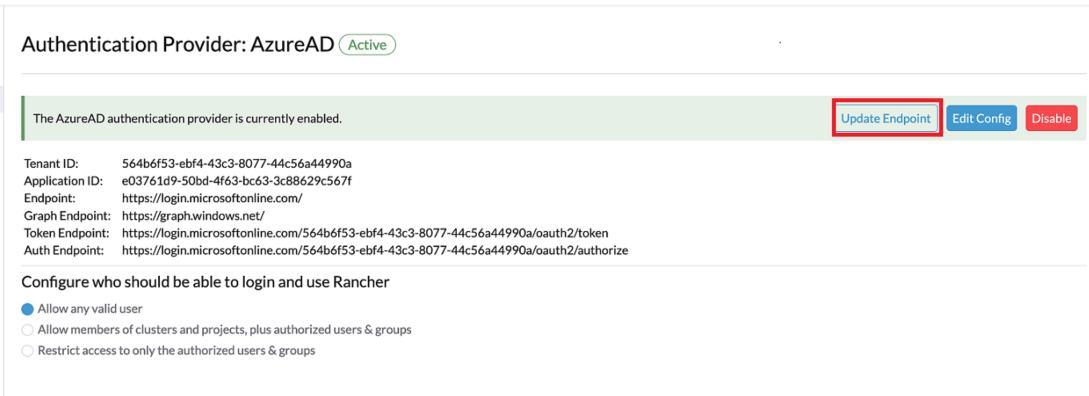
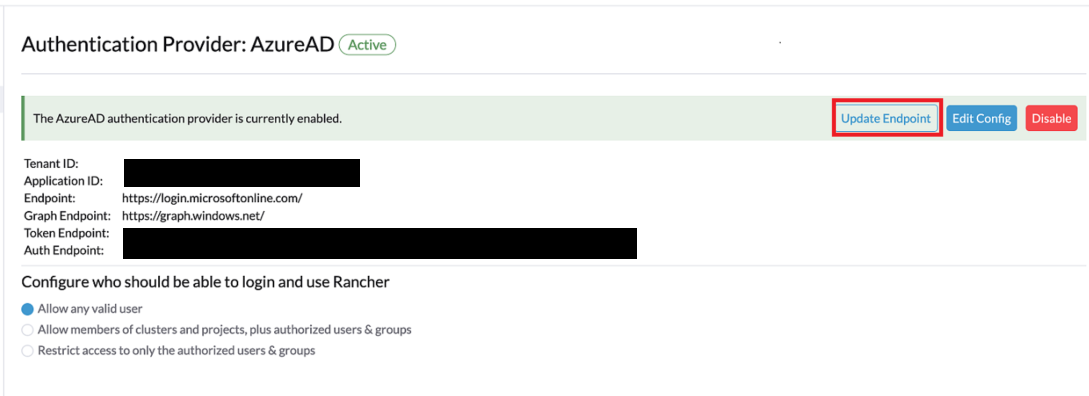
Added 2.5 pics, blocked out sensitive info on 2.6 pics

Changed region(s): [[0.0937, 0.5758, 0.5932, 0.6667], [0.0937, 0.3939, 0.3434, 0.4848]]

diff --git a/content/rancher/v2.5/en/admin-settings/authentication/azure-ad/_index.md b/content/rancher/v2.5/en/admin-settings/authentication/azure-ad/_index.md
@@ -163,9 +163,12 @@ As your final step in Azure, copy the data that you'll use to configure Rancher 
 
     ![Application ID]({{<baseurl>}}/img/rancher/application-id.png)
 
-1. Your endpoint options will typically be [Standard](#global) and [China](#china). With these options, you need only enter the **Tenant ID**, **Application ID**, and **Application Secret** (Rancher will take care of the rest).
+1. Your endpoint options will typically be [Standard](#global) and [China](#china). With the Standard option, perform the steps below and Rancher will take care of the rest.
 
-![Standard Endpoint Options]({{<baseurl>}}/img/rancher/tenant-application-id-secret.png)
+    - Enter the **Tenant ID**, **Application ID**, and **Application Secret**
+    - Click **Enable**
+
+![Standard Endpoint Options]({{<baseurl>}}/img/rancher/tenant-application-id-secret2.png)
     
 
 >**For Custom Endpoints:** 
@@ -243,15 +246,15 @@ Since [Azure AD Graph API](https://docs.microsoft.com/en-us/graph/migrate-azure-
 
     ![Rancher UI Banner]({{<baseurl>}}/img/rancher/rancher-ui-azure-update.png)
 
-1. When you receive the popup message, click **Update**. 
-
-    ![Azure Update Popup]({{<baseurl>}}/img/rancher/azure-update-popup.png)
-
-1. To complete the move to the new Microsoft Graph API, click **Update Endpoint**.
+1. To complete the move to the new Microsoft Graph API, click **Update Endpoint**, then click **Save**.
 
     **Note:** Ensure that your Azure app has a [new set of permissions](#3-set-required-permissions-for-rancher) before agreeing to commit to the endpoint update, as the old permissions would no longer be needed.
 
-    ![Update Endpoint]({{<baseurl>}}/img/rancher/rancher-button-to-update.png)
+    ![Update Endpoint]({{<baseurl>}}/img/rancher/rancher-button-to-update2.png)
+
+1. When you receive the pop-up warning message, click **Update**. 
+
+    ![Azure Update Pop-up]({{<baseurl>}}/img/rancher/azure-update-popup2.png)
 
 1. Refer to the [tables](#global) below for the full list of endpoint changes that Rancher performs. Admins do not need to do this manually.
 
@@ -272,36 +275,36 @@ If you need to roll back your migration, please note the following:
 #### Global:
    
 Rancher Field    | Deprecated Endpoints               
------------------| -------------------------------------------------------------
+---------------- | -------------------------------------------------------------
 Auth Endpoint    | https://login.microsoftonline.com/{tenantID}/oauth2/authorize
 Endpoint         | https://login.microsoftonline.com/ 
 Graph Endpoint   | https://graph.windows.net/    
 Token Endpoint   | https://login.microsoftonline.com/{tenantID}/oauth2/token   
 ---
 
-Rancher Field     | New Endpoints
------------------ | ------------------------------------------------------------------ 
-Auth Endpoint     | https://login.microsoftonline.com/{tenantID}/oauth2/v2.0/authorize 
-Endpoint          | https://login.microsoftonline.com/
-Graph Endpoint    | https://graph.microsoft.com
-Token Endpoint    | https://login.microsoftonline.com/{tenantID}/oauth2/v2.0/token
+Rancher Field    | New Endpoints
+---------------- | ------------------------------------------------------------------ 
+Auth Endpoint    | https://login.microsoftonline.com/{tenantID}/oauth2/v2.0/authorize 
+Endpoint         | https://login.microsoftonline.com/
+Graph Endpoint   | https://graph.microsoft.com
+Token Endpoint   | https://login.microsoftonline.com/{tenantID}/oauth2/v2.0/token
 
 #### China:
 
-Rancher Field     | Deprecated Endpoints
------------------ | ----------------------------------------------------------
-Auth Endpoint     | https://login.chinacloudapi.cn/{tenantID}/oauth2/authorize 
-Endpoint          | https://login.chinacloudapi.cn/
-Graph Endpoint    | https://graph.chinacloudapi.cn/
-Token Endpoint    | https://login.chinacloudapi.cn/{tenantID}/oauth2/token 
+Rancher Field    | Deprecated Endpoints
+---------------- | ----------------------------------------------------------
+Auth Endpoint    | https://login.chinacloudapi.cn/{tenantID}/oauth2/authorize 
+Endpoint         | https://login.chinacloudapi.cn/
+Graph Endpoint   | https://graph.chinacloudapi.cn/
+Token Endpoint   | https://login.chinacloudapi.cn/{tenantID}/oauth2/token 
 ---
 
-Rancher Field     | New Endpoints  
------------------ | -------------------------------------------------------------------------
-Auth Endpoint     | https://login.partner.microsoftonline.cn/{tenantID}/oauth2/v2.0/authorize 
-Endpoint          | https://login.partner.microsoftonline.cn/
-Graph Endpoint    | https://microsoftgraph.chinacloudapi.cn
-Token Endpoint    | https://login.partner.microsoftonline.cn/{tenantID}/oauth2/v2.0/token 
+Rancher Field    | New Endpoints  
+---------------- | -------------------------------------------------------------------------
+Auth Endpoint    | https://login.partner.microsoftonline.cn/{tenantID}/oauth2/v2.0/authorize 
+Endpoint         | https://login.partner.microsoftonline.cn/
+Graph Endpoint   | https://microsoftgraph.chinacloudapi.cn
+Token Endpoint   | https://login.partner.microsoftonline.cn/{tenantID}/oauth2/v2.0/token 
 
 
 {{% /tab %}}

diff --git a/content/rancher/v2.6/en/admin-settings/authentication/azure-ad/_index.md b/content/rancher/v2.6/en/admin-settings/authentication/azure-ad/_index.md
@@ -243,15 +243,15 @@ Since [Azure AD Graph API](https://docs.microsoft.com/en-us/graph/migrate-azure-
 
     ![Rancher UI Banner]({{<baseurl>}}/img/rancher/rancher-ui-azure-update.png)
 
-1. When you receive the popup message, click **Update**. 
-
-    ![Azure Update Popup]({{<baseurl>}}/img/rancher/azure-update-popup.png)
-
 1. To complete the move to the new Microsoft Graph API, click **Update Endpoint**.
 
     **Note:** Ensure that your Azure app has a [new set of permissions](#3-set-required-permissions-for-rancher) before agreeing to commit to the endpoint update, as the old permissions would no longer be needed.
 
     ![Update Endpoint]({{<baseurl>}}/img/rancher/rancher-button-to-update.png)
+
+1. When you receive the pop-up warning message, click **Update**. 
+
+    ![Azure Update Pop-up]({{<baseurl>}}/img/rancher/azure-update-popup.png)
 
 1. Refer to the [tables](#global) below for the full list of endpoint changes that Rancher performs. Admins do not need to do this manually.
 
